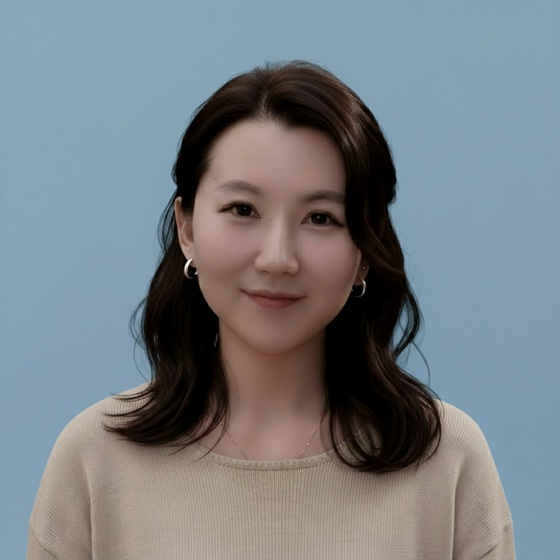
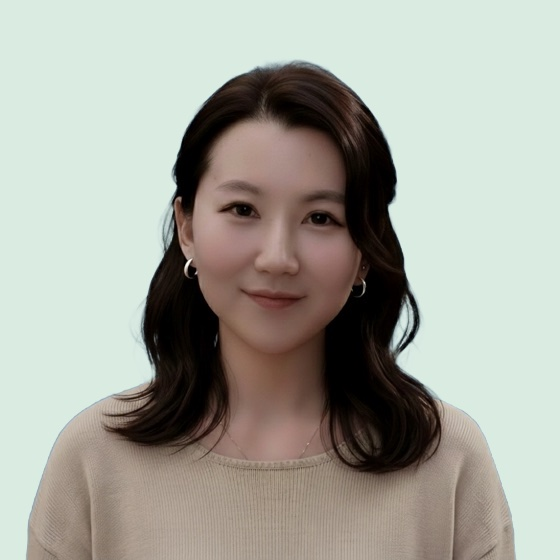
Put the three team photos on one flat background
The three were shot in different places -- studio backdrop, grey wall, rooftop
over a city skyline -- and grading could match their tone but not their
surroundings. Each is now composited onto #eef6f2, the same --p-sage already
painted behind every avatar, so the photo and its circle are one colour.

Cut out with Apple's Vision person segmentation (tools/segment-portrait.swift,
not shipped to the site). That request returns an alpha mask and nothing else,
so the subject's pixels are untouched. A generative background edit was not
used on purpose: those re-synthesise the frame and alter real people's faces.

Colour keying would not have worked here anyway -- Mengwen's background is a
detailed skyline with no uniform region to key against.

Flat backgrounds also compress better: the three drop from 200KB to 144KB.

diff --git a/index.html b/index.html
@@ -244,7 +244,7 @@
           <div class="team-grid">
             <article class="team-card" data-od-id="team-card-mengwen">
               <div class="team-photo">
-                <img decoding="async" loading="lazy" width="560" height="560" src="assets/team-mengwen-photo.jpg?v=graded" alt="Mengwen Yu">
+                <img decoding="async" loading="lazy" width="560" height="560" src="assets/team-mengwen-photo.jpg?v=cutout" alt="Mengwen Yu">
               </div>
               <div class="team-info">
                 <div>
@@ -261,7 +261,7 @@
             </article>
             <article class="team-card" data-od-id="team-card-lisha">
               <div class="team-photo">
-                <img decoding="async" loading="lazy" width="560" height="560" src="assets/team-lisha-photo.jpg?v=graded" alt="Lisha Chen">
+                <img decoding="async" loading="lazy" width="560" height="560" src="assets/team-lisha-photo.jpg?v=cutout" alt="Lisha Chen">
               </div>
               <div class="team-info">
                 <div>
@@ -273,7 +273,7 @@
             </article>
             <article class="team-card" data-od-id="team-card-yichun">
               <div class="team-photo">
-                <img decoding="async" loading="lazy" width="560" height="560" src="assets/team-yichun-photo.jpg?v=graded" alt="Yichun Liu">
+                <img decoding="async" loading="lazy" width="560" height="560" src="assets/team-yichun-photo.jpg?v=cutout" alt="Yichun Liu">
               </div>
               <div class="team-info">
                 <div>
@@ -305,7 +305,7 @@
             <div class="bio-dialog-inner">
               <button type="button" class="bio-dialog-close" data-bio-close aria-label="Close biography">×</button>
               <div class="bio-dialog-head">
-                <img src="assets/team-mengwen-photo.jpg?v=graded" alt="" width="560" height="560">
+                <img src="assets/team-mengwen-photo.jpg?v=cutout" alt="" width="560" height="560">
                 <div>
                   <h3 id="bio-mengwen-name">Mengwen Yu</h3>
                   <p class="bio-dialog-role">Visual Designer</p>
@@ -329,7 +329,7 @@
             <div class="bio-dialog-inner">
               <button type="button" class="bio-dialog-close" data-bio-close aria-label="Close biography">×</button>
               <div class="bio-dialog-head">
-                <img src="assets/team-yichun-photo.jpg?v=graded" alt="" width="560" height="560">
+                <img src="assets/team-yichun-photo.jpg?v=cutout" alt="" width="560" height="560">
                 <div>
                   <h3 id="bio-yichun-name">Yichun Liu</h3>
                   <p class="bio-dialog-role">Design Lead</p>
